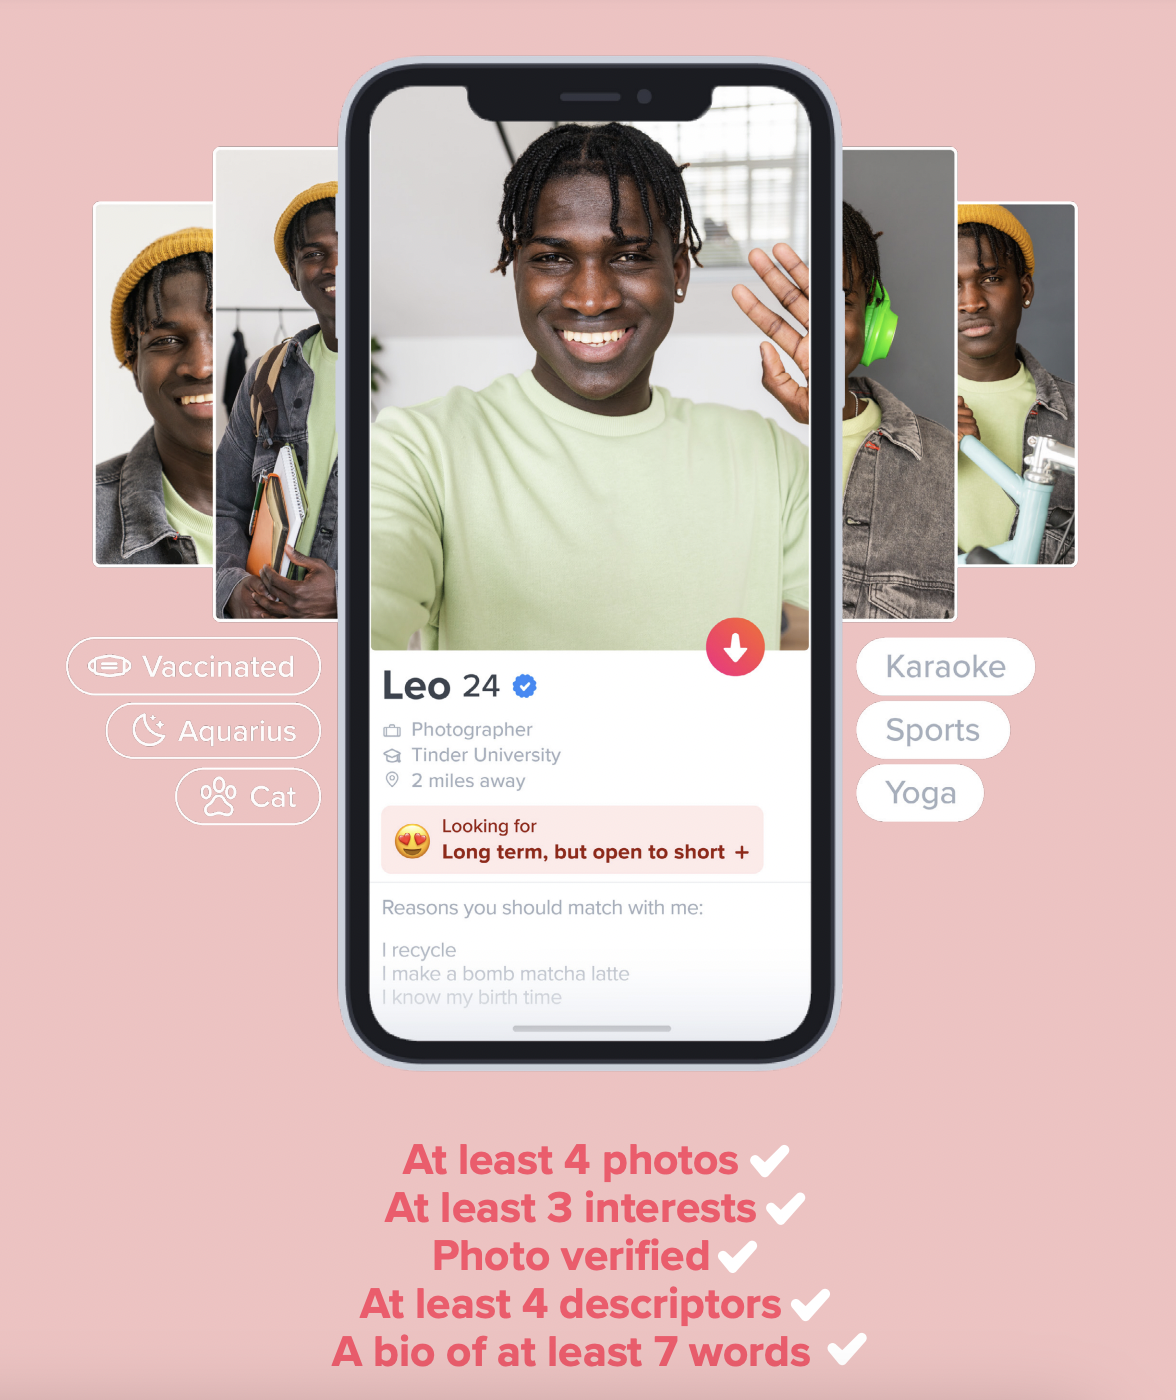
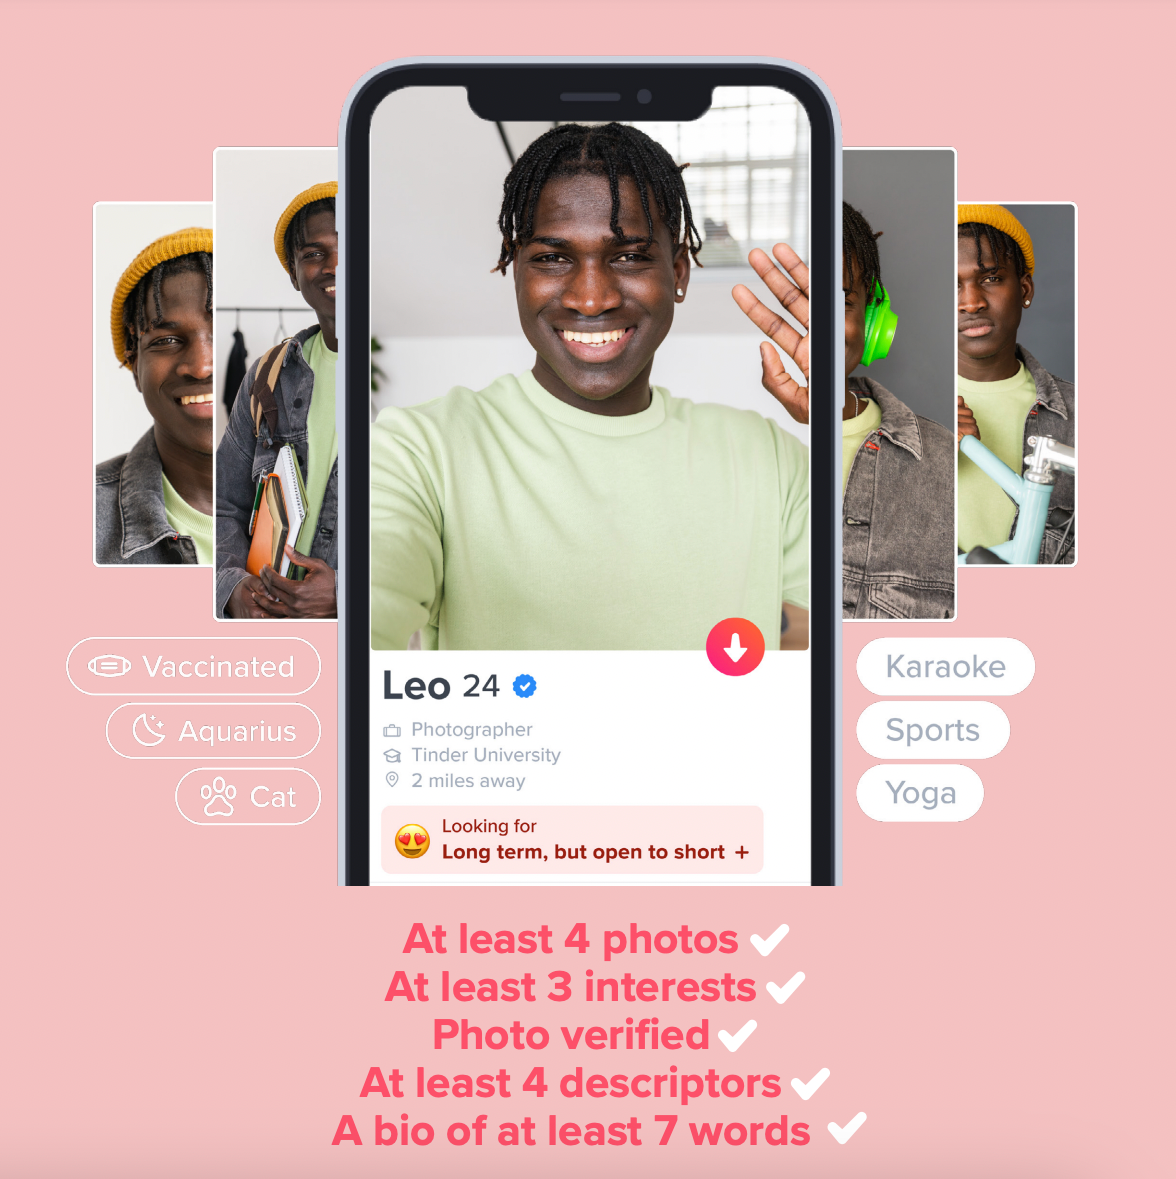
fix photo size and swipe text size

Changed region(s): [[0.0612, 0.0305, 0.9184, 0.9771]]

diff --git a/pages/04_3Consequence_S.html b/pages/04_3Consequence_S.html
@@ -30,12 +30,12 @@
         </section>
         <section>
                 <img class="swipe_img" src="../img/distance.png" alt="">
-                <h6 class="swipe_img_text">Location features in dating app</h6>
+                <h6 class="swipe_img_text swipe_img_text_small">Location features <br />in dating app</h6>
                 <a href="#section5" class="figure_text">Figure 22 ↩</a>
         </section>
         <section>
                 <img class="swipe_img" src="../img/distance1.png" alt="">
-                <h6 class="swipe_img_text">Location of LGBT+ people in certain countries</h6>
+                <h6 class="swipe_img_text swipe_img_text_small">Location of LGBT+ people in certain countries</h6>
                 <a href="#section5" class="figure_text">Figure 23 ↩</a>
         </section>
         

diff --git a/pages/05_2Consequence_P.html b/pages/05_2Consequence_P.html
@@ -27,12 +27,12 @@
         </section>
         <section>
                 <img class="swipe_img" src="../img/crime01.png" alt="">
-                <h6 class="swipe_img_text">Murder on the Internet (2017)</h6>
+                <h6 class="swipe_img_text swipe_img_text_small">Murder on the Internet (2017)</h6>
                 <a href="#section1" class="figure_text">Figure 24 ↩</a>
         </section>
         <section>
                 <img class="swipe_img" src="../img/crime02.png" alt="">
-                <h6 class="swipe_img_text">The Tinder Swindler (2022)</h6>
+                <h6 class="swipe_img_text swipe_img_text_small">The Tinder Swindler (2022)</h6>
                 <a href="#section3" class="figure_text">Figure 25 ↩</a>
         </section>
         

diff --git a/pages/02_5Connection.html b/pages/02_5Connection.html
@@ -25,12 +25,12 @@
         </section>
         <section>
                 <img class="swipe_img" src="../img/visual_creatures_02.png" alt="">
-                <h6 class="swipe_img_text">Photos for <br/>swipe right</h6>
+                <h6 class="swipe_img_text">Photos for <br/>swipe  right</h6>
                 <a href="#section2" class="figure_text">Figure 08 ↩</a>
         </section>
         <section>
                 <img class="swipe_img" src="../img/visual_creatures.png" alt="">
-                <h6 class="swipe_img_text">Photos for <br/>swipe right</h6>
+                <h6 class="swipe_img_text">Photos for <br/>swipe  right</h6>
                 <a href="#section2" class="figure_text">Figure 09 ↩</a>
         </section>
         <section>

diff --git a/pages/03_3Providing.html b/pages/03_3Providing.html
@@ -23,7 +23,7 @@
         </section>
         <section>
                 <img class="swipe_img" src="../img/tinder_dataset.png" alt="">
-                <h6 class="swipe_img_text">how a dating algorithm works</h6>
+                <h6 class="swipe_img_text swipe_img_text_small">how a dating algorithm works</h6>
                 <a href="#section3" class="figure_text">Figure 12 ↩</a>
         </section>
         <section>

diff --git a/pages/pageStyle.css b/pages/pageStyle.css
@@ -177,10 +177,14 @@ p{
 }
 .swipe_img_text{
     font-family: "Bianzhidai";
+    font-weight: 300;
     position: relative;
     top: calc(5rem + 5vw);
     font-size: 1.3rem;
     text-align: center;
+}
+.swipe_img_text_small{
+    font-size: 1rem;
 }
 .figure_text{
     font-size: 1rem;

diff --git a/style.css b/style.css
@@ -16,9 +16,6 @@ body{
 
 /* media css */
 @media only screen and (max-width: 480px) {
-    picture{
-        height: 100vw;
-    }
     #title{
         position: relative;
         top: 0;
